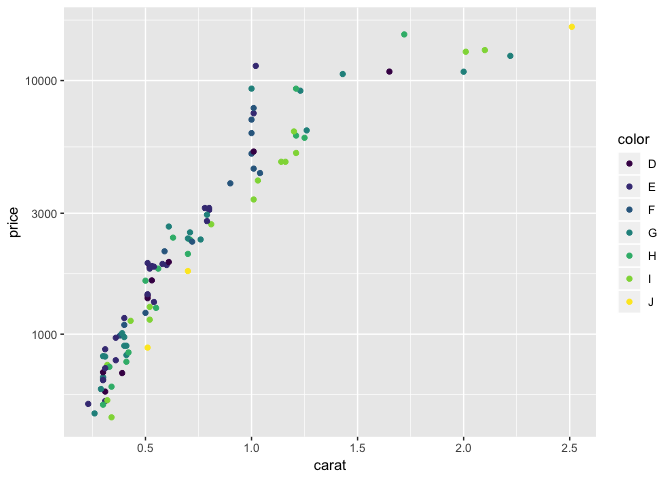
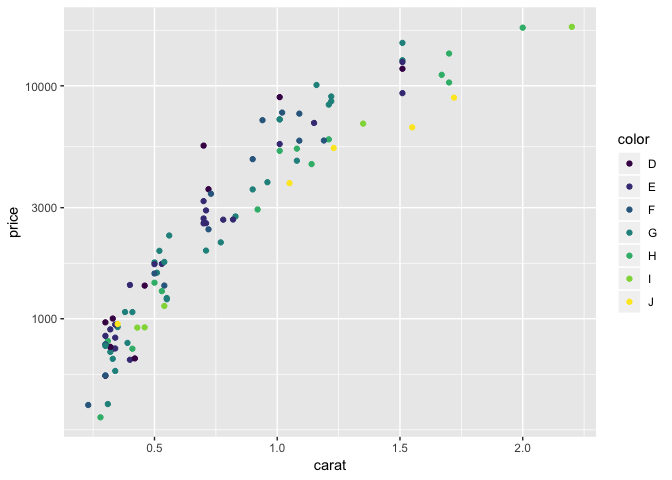
Tidy style

diff --git a/README.md b/README.md
@@ -48,7 +48,7 @@ types of presentation.
 library(scales)
 
 # percent() function takes a numeric and does your division and labelling for you
-percent(c(0.1, 1/3, 0.56))
+percent(c(0.1, 1 / 3, 0.56))
 #> [1] "10.0%" "33.3%" "56.0%"
 
 # comma() adds commas into large numbers for easier readability
@@ -75,17 +75,18 @@ number(c(12.3, 4, 12345.789, 0.0002), big.mark = ".", decimal.mark = ",")
 #> [1] "12"     "4"      "12.346" "0"
 
 # these functions round by default, but you can set the accuracy
-number(c(12.3, 4, 12345.789, 0.0002), 
-       big.mark = ".", 
-       decimal.mark = ",", 
-       accuracy = .01)
+number(c(12.3, 4, 12345.789, 0.0002),
+  big.mark = ".",
+  decimal.mark = ",",
+  accuracy = .01
+)
 #> [1] "12,30"     "4,00"      "12.345,79" "0,00"
 
 # percent formatting in the French style
 french_percent <- percent_format(decimal.mark = ",", suffix = " %")
 french_percent(runif(10))
-#>  [1] "11,2 %" "47,4 %" "17,3 %" "86,7 %" "99,5 %" "91,9 %" "36,7 %"
-#>  [8] "54,6 %" "56,2 %" "64,4 %"
+#>  [1] "87,8 %" "88,7 %" "96,8 %" "85,3 %" "74,1 %" "70,2 %" "0,4 %" 
+#>  [8] "11,6 %" "29,7 %" "32,3 %"
 
 # currency formatting Euros (and simple conversion!)
 usd_to_euro <- dollar_format(prefix = "", suffix = "\u20ac", scale = .85)
@@ -134,11 +135,11 @@ ggplot(iris, aes(x = Sepal.Length, y = Sepal.Width, colour = Petal.Length)) +
 # the rescale functions can rescale continuous vectors to new min, mid, or max values
 x <- runif(5, 0, 1)
 rescale(x, to = c(0, 50))
-#> [1]  0.000000 13.878970  2.906766 22.787482 50.000000
+#> [1]  0.00000000 35.84609465  0.05776566 16.13651324 50.00000000
 rescale_mid(x, mid = .25)
-#> [1] 0.3437512 0.5259124 0.3819024 0.6428364 1.0000000
+#> [1] 0.2818947 0.7967201 0.2827244 0.5136490 1.0000000
 rescale_max(x, to = c(0, 50))
-#> [1]  1.749576 15.142899  4.554629 23.739689 50.000000
+#> [1]  2.909815 36.669800  2.964219 18.107243 50.000000
 ```
 
 scales also gives users the ability to define and apply their own custom
@@ -149,9 +150,9 @@ transformation functions for repeated use.
 logp3_trans <- trans_new(
   name = "logp",
   trans = function(x) log(x + 3),
-  inverse =  function(x) exp(x) - 3,
+  inverse = function(x) exp(x) - 3,
   breaks = log_breaks()
-  )
+)
 
 library(dplyr)
 dsamp <- sample_n(diamonds, 100)
@@ -168,7 +169,7 @@ logp3_trans$breaks(dsamp$price)
 
 # scales has some breaks helper functions too
 log_breaks(base = exp(1))(dsamp$price)
-#> [1]   403.4288  1096.6332  2980.9580  8103.0839 22026.4658
+#> [1]   148.4132   403.4288  1096.6332  2980.9580  8103.0839 22026.4658
 
 pretty_breaks()(dsamp$price)
 #> [1]     0  5000 10000 15000 20000
